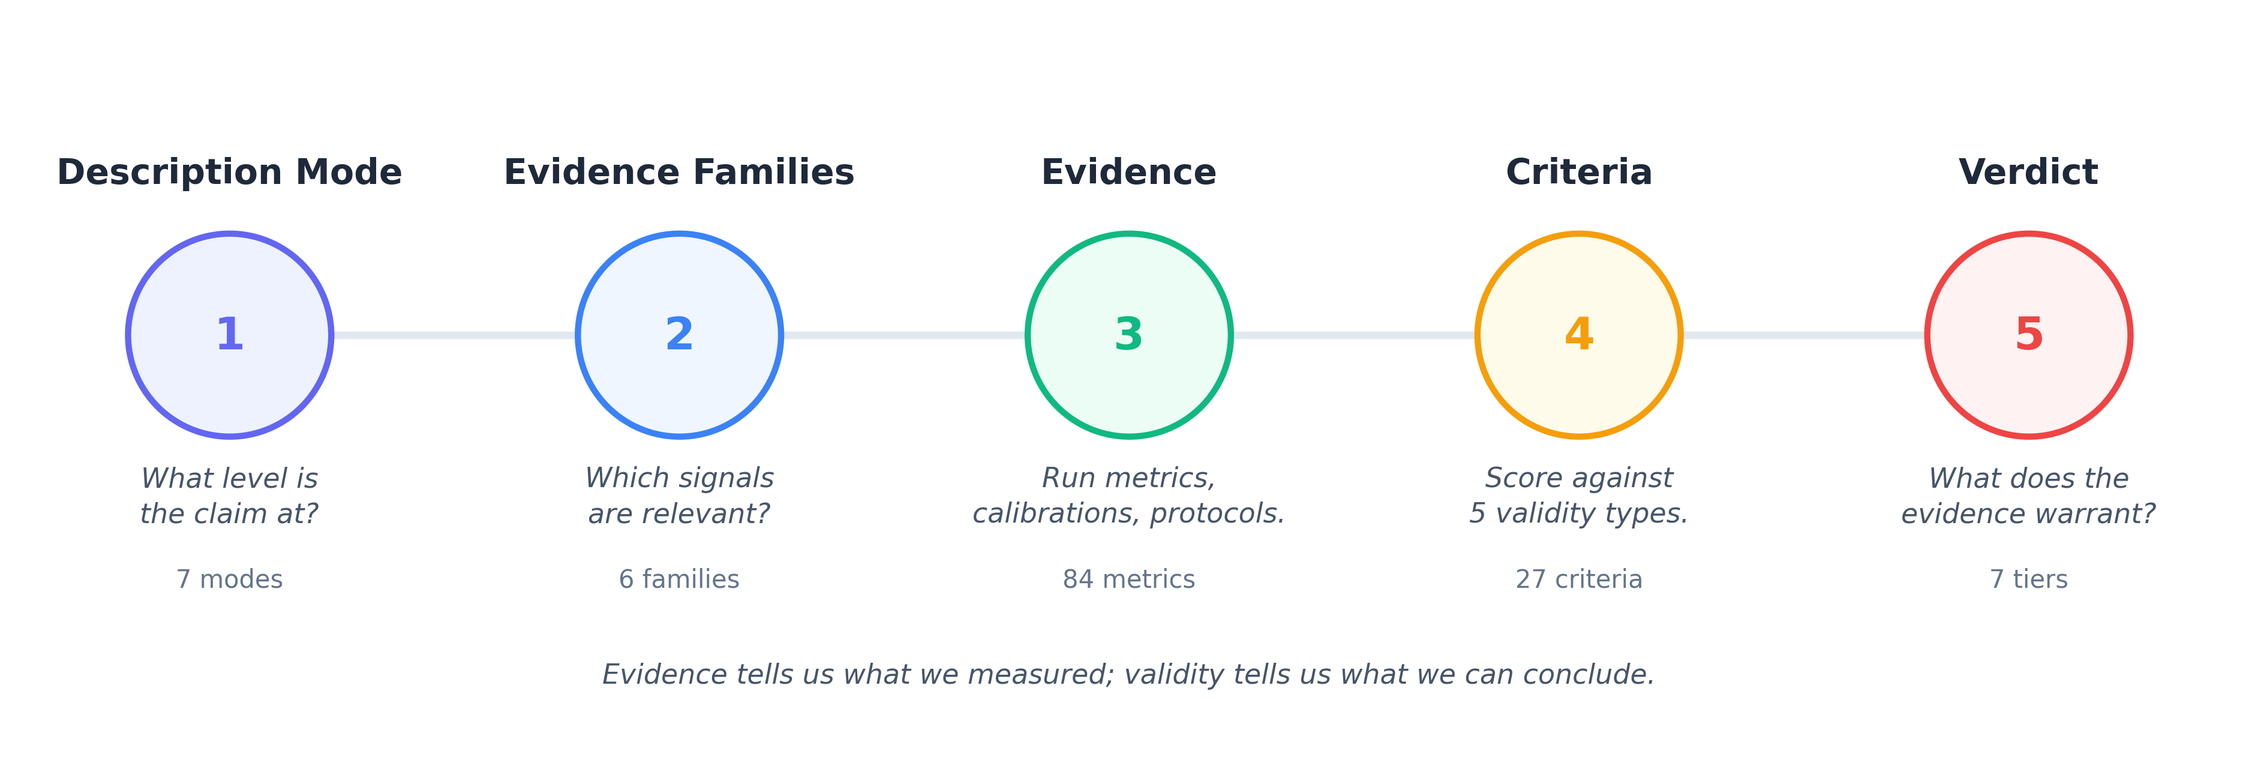
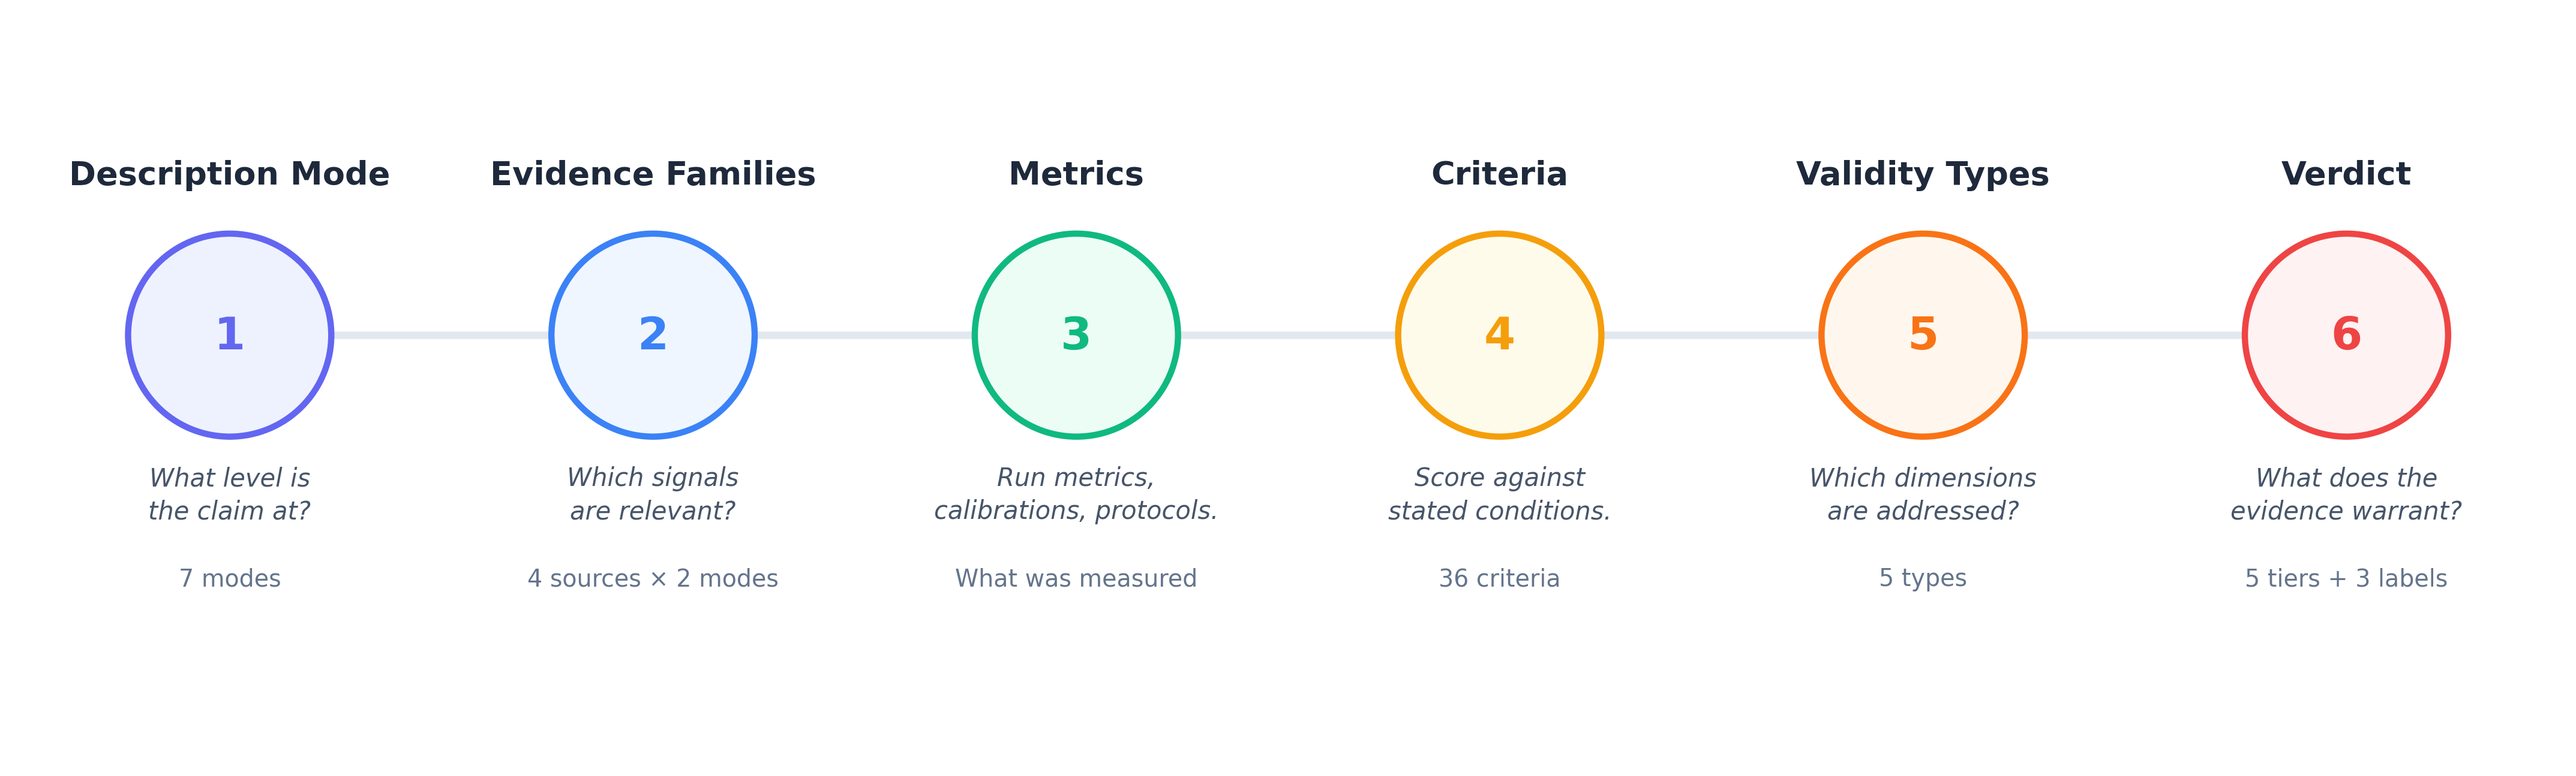
Homepage v7, pipeline update, and sidebar restructure

diff --git a/docs/src/content/docs/index.md b/docs/src/content/docs/index.md
@@ -5,7 +5,7 @@ description: "Mechanistic Validity: a framework for evaluating circuit claims in
 
 # Mechanistic Validity
 
-Mechanistic Validity is a framework for evaluating claims about circuits in neural networks. It provides a seven-layer evaluation pipeline, five validity types (each rooted in a distinct scientific tradition), 36 criteria, and a structured verdict system. Its purpose is to make explicit which part of a mechanistic claim a given measurement supports and which parts remain unaddressed.
+Mechanistic Validity is a framework for evaluating claims about circuits in neural networks. It provides a six-layer evaluation pipeline, five validity types (each rooted in a distinct scientific tradition), 36 criteria, and a structured verdict system. Its purpose is to make explicit which part of a mechanistic claim a given measurement supports and which parts remain unaddressed.
 
 The framework does not introduce new measurement methods. It organizes existing methods — ablation, activation patching, DAS-IIA, causal scrubbing, weight analysis, baseline calibration — under a common evaluative vocabulary drawn from the standard typology of validity in philosophy of science and adapted to the conditions of mechanistic interpretability.
 
@@ -13,11 +13,11 @@ The framework does not introduce new measurement methods. It organizes existing 
 
 The framework applies to claims of the form *component C implements computation T in model M*. Such claims are made routinely in circuit-discovery papers and are typically supported by a small number of metrics — most often activation patching plus one form of ablation. The framework specifies what additional evidence is required for the claim to be considered validated under each of five named dimensions, and what verdict is licensed when only a subset of that evidence is present.
 
-The framework's central commitment is that a single high score does not validate a circuit claim. Validation is a pattern of evidence across multiple dimensions, and a claim is only as strong as the dimension on which it has the weakest support.
+A single high score does not validate a circuit claim. Validation is a pattern of evidence across multiple dimensions, and a claim is only as strong as the dimension on which it has the weakest support.
 
 ## The evaluation pipeline
 
-The pipeline has seven layers. Layers 1–2 scope the claim. Layer 3 produces evidence. Layers 4–6 score it. Layer 7 issues a verdict.
+The pipeline has six layers. Layers 1–2 scope the claim. Layer 3 produces evidence. Layers 4–5 score it. Layer 6 issues a verdict.
 
 | Layer | Name | Question |
 |---|---|---|
@@ -26,8 +26,7 @@ The pipeline has seven layers. Layers 1–2 scope the claim. Layer 3 produces ev
 | 3 | [Metrics](/mechanistic-validity/framework/metrics/) | What was concretely measured? |
 | 4 | [Criteria](/mechanistic-validity/framework/criteria/) | Does the evidence meet the stated conditions? |
 | 5 | [Validity types](/mechanistic-validity/framework/validity-types/) | Which dimensions of validity does it address? |
-| 6 | Synthesis | How is evidence aggregated across methods? |
-| 7 | [Verdicts](/mechanistic-validity/framework/verdicts/) | What has the claim established? |
+| 6 | [Verdicts](/mechanistic-validity/framework/verdicts/) | What has the claim established? |
 
 The five **validity types** form a dependency chain: Construct → Measurement → Internal → External → Interpretive. A failure early in the chain limits what later evidence can establish: an ambiguous construct cannot be reliably measured, an unreliable measurement cannot support a causal inference, and so on.
 
@@ -41,6 +40,6 @@ See the [case studies](/mechanistic-validity/framework/examples/) for the full v
 
 ## What the framework is not
 
-The framework does not rank circuits. It produces a structured verdict — a pattern of which dimensions have evidence and which do not — rather than a scalar score. Two circuits with the same scalar faithfulness can have very different verdict structures, and the framework's value is in making that difference visible.
+The framework does not rank circuits. It produces a structured verdict — a pattern of which dimensions have evidence and which do not — rather than a scalar score. Two circuits with the same scalar faithfulness can have very different verdict structures.
 
-The framework also does not assume any particular discovery method is correct. Activation patching, EAP, DAS-IIA, weight classifiers, and causal scrubbing all appear as metrics that produce evidence for one or more criteria. None is privileged. The framework's role is to specify what each metric actually establishes.
+The framework does not assume any particular discovery method is correct. Activation patching, EAP, DAS-IIA, weight classifiers, and causal scrubbing all appear as metrics that produce evidence for one or more criteria. None is privileged; each metric establishes evidence for specific criteria.

diff --git a/docs/src/content/docs/home-v7/index.md b/docs/src/content/docs/home-v7/index.md
@@ -1,0 +1,52 @@
+---
+title: "Overview"
+description: "Mechanistic Validity: a validity theory and evidence standard for mechanistic claims."
+---
+
+# Mechanistic Validity
+
+### What evidence licenses a mechanistic claim?
+
+A circuit paper reports an activation-patching score and names a mechanism. What has that number established? The answer depends on what kind of claim is being made, what other evidence exists, and what the measurement itself is known to do — questions that fields from genetics to pharmacology have answered for their own claims, but that mechanistic interpretability has not yet answered for its own.
+
+**Mechanistic Validity** is a validity theory and evidence standard for mechanistic claims. It adapts criteria from eight fields into 36 falsifiable conditions under five validity types — construct, measurement, internal, external, and interpretive — each dependent on the ones before it.
+
+The framework works in two directions: **auditing** a published claim to identify what the evidence record warrants and what caps it, and planning new experiments to target the gap that would most change the verdict.
+
+## The evaluation pipeline
+
+The pipeline has six layers. Layers 1–2 scope the claim. Layer 3 produces evidence. Layers 4–5 score it. Layer 6 issues a verdict.
+
+| Layer | Name | Question |
+|---|---|---|
+| 1 | [Description modes](/mechanistic-validity/framework/description-modes/) | At what level is the claim stated? |
+| 2 | [Evidence families](/mechanistic-validity/framework/evidence-families/) | Which sources of signal support it? |
+| 3 | [Metrics](/mechanistic-validity/framework/metrics/) | What was concretely measured? |
+| 4 | [Criteria](/mechanistic-validity/framework/criteria/) | Does the evidence meet the stated conditions? |
+| 5 | [Validity types](/mechanistic-validity/framework/validity-types/) | Which dimensions of validity does it address? |
+| 6 | [Verdicts](/mechanistic-validity/framework/verdicts/) | What has the claim established? |
+
+<p align="center">
+  <img src="/mechanistic-validity/figures/v2/pipeline-horizontal.png" alt="Mechanistic Validity Pipeline — six layers from description mode through verdict" style="max-width: 900px; width: 100%;"/>
+</p>
+
+The five validity types form a dependency chain: Construct → Measurement → Internal → External → Interpretive. A failure early in the chain limits what later evidence can establish: an ambiguous construct cannot be reliably measured, an unreliable measurement cannot support a causal inference, and so on.
+
+The 36 criteria — 6 construct, 7 measurement, 12 internal, 6 external, 5 interpretive — are the specific, falsifiable conditions within each validity type. Each draws from a distinct scientific tradition: philosophy of science and psychometrics for construct validity, causal inference and neuroscience for internal validity, pharmacology for external validity, and interpretability itself for interpretive validity.
+
+## Sixteen audited case studies
+
+We audited sixteen published mechanistic claims across fifteen papers. No claim reaches Validated. One claim — induction heads for token copying — reaches Triangulated. Seven reach Mechanistically Supported. The capping criterion for every Mechanistically Supported claim is I6 (double dissociation): the field rarely attempts crossed designs. I8 (confounding sensitivity) is untested in all sixteen.
+
+See the [case studies](/mechanistic-validity/framework/examples/) for the full verdicts and per-criterion scoring.
+
+## Relationship to Mechanistic Views
+
+Mechanistic Validity evaluates the evidence behind a mechanistic claim — whether the measurement is reliable, the causal interpretation is justified, the result generalizes within its stated scope, and the description matches what was tested. [Mechanistic Views](https://mechanistic-views.github.io/mechanistic-views/) defines what a mechanism is — what kind of object is it, when two mechanisms are the same, and what formalism expresses the claim. The frameworks are independent, but when used together they complement each other: what kind of mechanism is being claimed, and how strong is the evidence supporting it.
+
+## Reading path
+
+- [**Framework Overview**](/mechanistic-validity/framework/) — the pipeline, validity types, criteria, and verdict tiers
+- [**Using the Framework**](/mechanistic-validity/using/) — how to apply it to a claim, step by step
+- [**Case Studies**](/mechanistic-validity/framework/examples/) — sixteen audited claims from fifteen papers, with full scorecards
+- [**About & Citation**](/mechanistic-validity/about/) — how to cite this work
